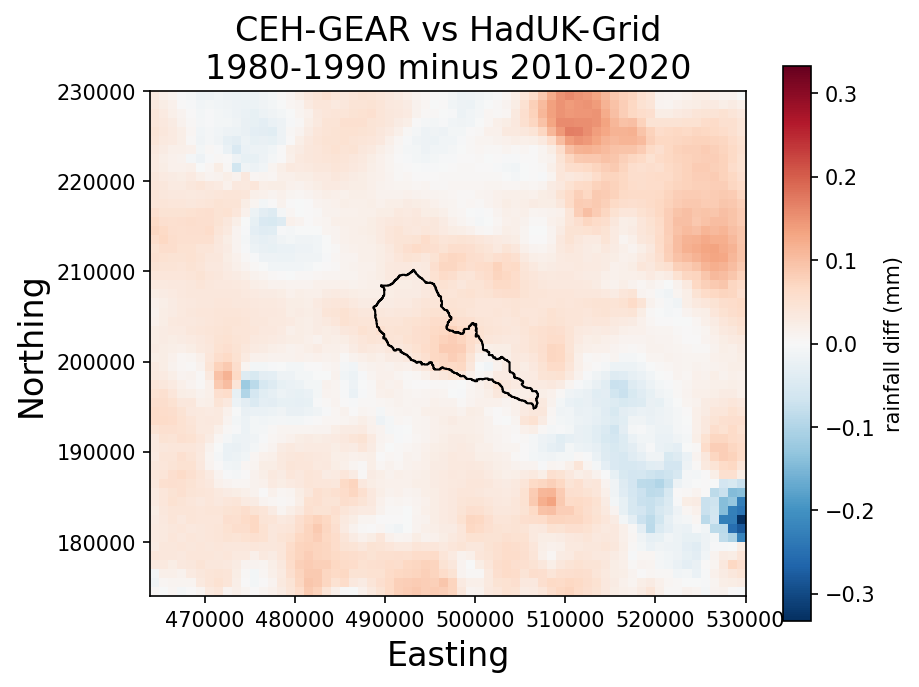
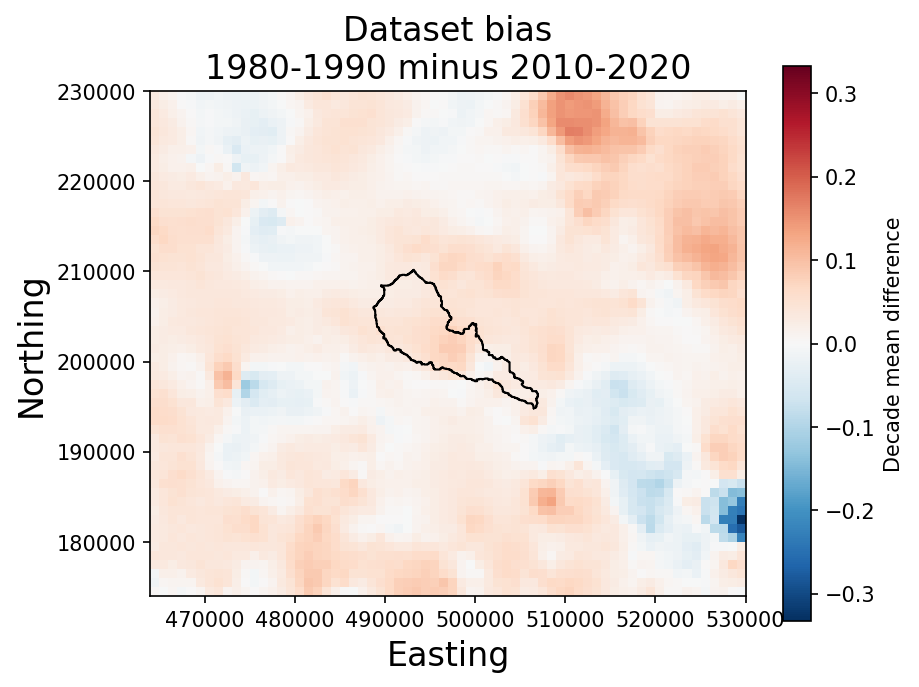
update dataset diff plot

Changed region(s): [[0.2437, 0.0, 0.7312, 0.0611], [0.9445, 0.3362, 1.0, 0.6725]]

diff --git a/README.md b/README.md
@@ -6,17 +6,20 @@ Notebook to explore rain gauges around River Chess.
 
 <img src="./figures/chess_gauges_and_distance_to_gauge_01_Jan_2020.png" width="500">
 
-### Compare minimum distance to nearest gauge decadal means
+### Compare minimum distance to nearest gauge (decadal means)
 There are were more rain gauges on average across the catchment during the 1980s compared with the 2010s.  
 Below we compare the decadal mean distance to nearest gauge:  
 <img src="./figures/chess_min_dist_1980to1990mean.png" width="500">
 
 <img src="./figures/chess_min_dist_2010to2020mean.png" width="500">
 
-### Compare CEH-GEAR vs HadUK-Grid Bias around Chess
+### Compare CEH-GEAR vs HadUK-Grid Bias around Chess (decadal means)
+Next, we examine the differences between the CEH-GEAR and the HadUK-Grid (red means CEH bias, and blue means HadUK bias).  
+
 <img src="./figures/chess_ceh_vs_haduk_1980to1990mean.png" width="500">  
 
 <img src="./figures/chess_ceh_vs_haduk_2010to2020mean.png" width="500">  
  
- **Difference between two decade mean**  
+ **Difference between two decade means**  
+Across most of the catchment CEH is bias 
 <img src="./figures/chess_ceh_vs_haduk_decade_mean_diff.png" width="500"> 
